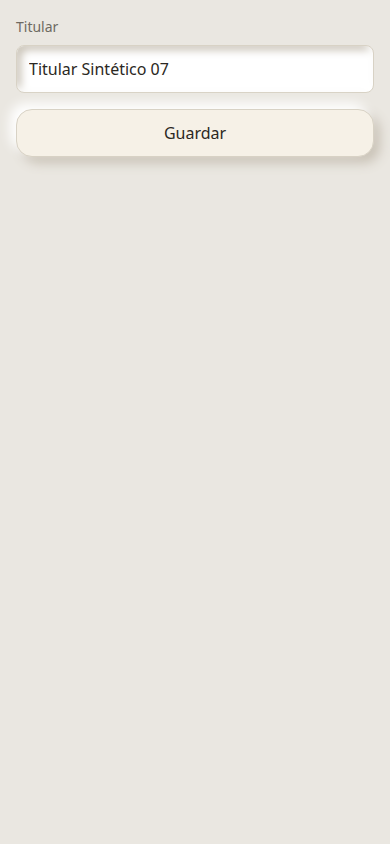
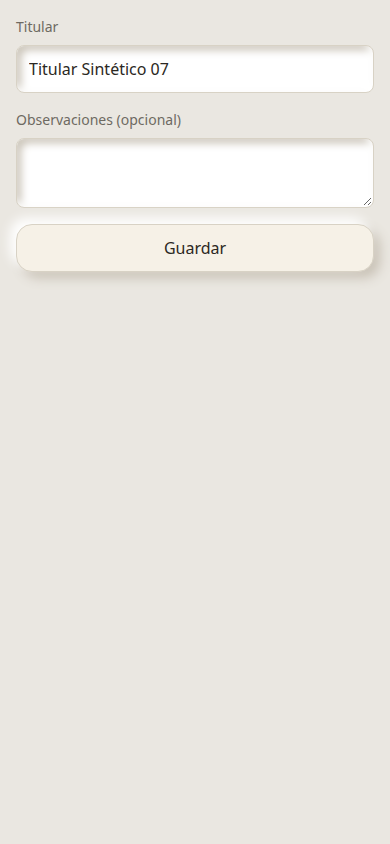
UI-20: botón y pantalla del reporte del día
Pantalla de reporte accesible desde el detalle general. Muestra los
cambios confirmados del día elegido con siete columnas: ID, Fecha,
Inquilino, Concepto, Observaciones, Solicitante y Ejecutor.
La fecha por omisión es hoy (Querétaro). Sin tabla cuando no hay datos.

Changed region(s): [[0.0308, 0.1232, 0.9846, 0.2464], [0.0923, 0.2773, 0.9846, 0.3389]]

diff --git a/web/reporte/reporte.js b/web/reporte/reporte.js
@@ -1,0 +1,88 @@
+// Reporte del día. UI-20.
+
+function fechaDeQueretaro() {
+  return new Intl.DateTimeFormat("en-CA", {
+    timeZone: "America/Mexico_City",
+    year: "numeric",
+    month: "2-digit",
+    day: "2-digit",
+  }).format(new Date());
+}
+
+function textoPersona(valor) {
+  return valor === "vania" ? "Vania" : valor || "—";
+}
+
+function crearFila(fila) {
+  const tr = document.createElement("tr");
+  const columnas = [
+    ["id", fila.id], ["fecha", fila.fecha], ["inquilino", fila.inquilino],
+    ["concepto", fila.concepto], ["observaciones", fila.observaciones || "—"],
+    ["solicitante", textoPersona(fila.solicitante)], ["ejecutor", textoPersona(fila.ejecutor)],
+  ];
+  for (const [nombre, valor] of columnas) {
+    const td = document.createElement("td");
+    td.dataset.columnaReporte = nombre;
+    td.textContent = String(valor ?? "—");
+    if (nombre === "ejecutor") {
+      td.dataset.ejecutor = fila.ejecutor || "";
+      td.className = fila.ejecutor === "vania" ? "reporte__ejecutor reporte__ejecutor--vania" : "reporte__ejecutor";
+    }
+    tr.appendChild(td);
+  }
+  return tr;
+}
+
+async function cargarReporte(cuerpo, fecha) {
+  cuerpo.innerHTML = "";
+  const respuesta = await fetch(`/api/reporte?fecha=${encodeURIComponent(fecha)}`);
+  if (!respuesta.ok) {
+    const error = document.createElement("p");
+    error.className = "navegacion__mensaje";
+    error.textContent = "No se pudo cargar el reporte del día.";
+    cuerpo.appendChild(error);
+    return;
+  }
+  const filas = await respuesta.json();
+  if (filas.length === 0) {
+    const vacio = document.createElement("p");
+    vacio.dataset.reporteVacio = "true";
+    vacio.textContent = "No hubo cambios confirmados este día.";
+    cuerpo.appendChild(vacio);
+    return;
+  }
+  const tabla = document.createElement("table");
+  tabla.dataset.tablaReporte = "true";
+  tabla.innerHTML = "<thead><tr><th>ID</th><th>Fecha</th><th>Inquilino</th><th>Concepto</th><th>Observaciones</th><th>Solicitante</th><th>Ejecutor</th></tr></thead>";
+  const tbody = document.createElement("tbody");
+  for (const fila of filas) tbody.appendChild(crearFila(fila));
+  tabla.appendChild(tbody);
+  cuerpo.appendChild(tabla);
+}
+
+export async function renderReporte(contenedor) {
+  if (!document.querySelector('link[href="/reporte/reporte.css"]')) {
+    const estilos = document.createElement("link");
+    estilos.rel = "stylesheet";
+    estilos.href = "/reporte/reporte.css";
+    document.head.appendChild(estilos);
+  }
+  const titulo = document.createElement("h2");
+  titulo.textContent = "Reporte del día";
+  contenedor.appendChild(titulo);
+  const etiqueta = document.createElement("label");
+  etiqueta.htmlFor = "reporte-fecha";
+  etiqueta.textContent = "Fecha";
+  const fecha = document.createElement("input");
+  fecha.id = "reporte-fecha";
+  fecha.type = "date";
+  fecha.value = fechaDeQueretaro();
+  fecha.dataset.fechaReporte = "true";
+  etiqueta.appendChild(fecha);
+  contenedor.appendChild(etiqueta);
+  const envoltura = document.createElement("div");
+  envoltura.className = "reporte__tabla";
+  contenedor.appendChild(envoltura);
+  await cargarReporte(envoltura, fecha.value);
+  fecha.addEventListener("change", () => cargarReporte(envoltura, fecha.value));
+}

diff --git a/web/reporte/reporte.css b/web/reporte/reporte.css
@@ -1,0 +1,8 @@
+/* Reporte del día. UI-20. */
+.detalle-general__areas { display: flex; flex-wrap: wrap; gap: var(--espacio-2); margin-bottom: var(--espacio-4); }
+.detalle-general__reporte { font-weight: 600; }
+#reporte-fecha { display: block; margin-top: var(--espacio-1); }
+.reporte__tabla { overflow-x: auto; margin-top: var(--espacio-4); box-shadow: var(--sombra-hundida); }
+.reporte__tabla table { width: 100%; min-width: 720px; border-collapse: collapse; font-size: var(--texto-sm); }
+.reporte__tabla th, .reporte__tabla td { padding: var(--espacio-2); border-bottom: 1px solid var(--borde-suave); text-align: left; vertical-align: top; }
+.reporte__ejecutor--vania { color: var(--acento); font-weight: 700; }

diff --git a/tests/ui/test_ui20_reporte.py b/tests/ui/test_ui20_reporte.py
@@ -1,0 +1,55 @@
+"""UI-20: reporte del día desde el detalle, en vista de teléfono."""
+
+from datetime import datetime
+from pathlib import Path
+from zoneinfo import ZoneInfo
+
+
+def _fecha_queretaro():
+    return datetime.now(ZoneInfo("America/Mexico_City")).date().isoformat()
+
+
+def test_reporte_abre_hoy_muestra_columnas_y_no_contamina_nivel1(servicio_url, page):
+    page.set_viewport_size({"width": 390, "height": 844})
+    page.goto(f"{servicio_url}/#detalle")
+    page.locator("[data-abrir-reporte]").click()
+    page.wait_for_selector("[data-fecha-reporte]")
+
+    assert page.locator("[data-fecha-reporte]").input_value() == _fecha_queretaro()
+
+    page.goto(f"{servicio_url}/")
+    page.wait_for_selector(".nivel1")
+    assert page.locator(".nivel1 table").count() == 0
+
+
+def test_cambiar_fecha_consulta_el_dia_elegido_y_la_tabla_tiene_siete_columnas(servicio_url, page):
+    page.set_viewport_size({"width": 390, "height": 844})
+    page.goto(f"{servicio_url}/#reporte")
+    page.wait_for_selector("[data-fecha-reporte]")
+    fecha_pasada = "2000-01-01"
+    with page.expect_response(lambda respuesta: f"/api/reporte?fecha={fecha_pasada}" in respuesta.url):
+        page.locator("[data-fecha-reporte]").fill(fecha_pasada)
+        page.locator("[data-fecha-reporte]").dispatch_event("change")
+    page.wait_for_selector("[data-reporte-vacio]")
+    assert page.locator("[data-fecha-reporte]").input_value() == fecha_pasada
+
+    page.goto(f"{servicio_url}/#reporte")
+    page.wait_for_selector("[data-fecha-reporte]")
+    encabezados = page.locator("[data-tabla-reporte] th")
+    if encabezados.count() == 0:
+        page.evaluate("""async () => {
+          const pendiente = await fetch('/api/inquilinos', {
+            method: 'POST', headers: {'Content-Type': 'application/json'},
+            body: JSON.stringify({titular: 'Reporte UI-20'})
+          });
+          const cambio = await pendiente.json();
+          await fetch(`/api/cambios/${cambio.id}/confirmar`, {method: 'POST'});
+        }""")
+        page.reload()
+        page.wait_for_selector("[data-tabla-reporte]")
+        encabezados = page.locator("[data-tabla-reporte] th")
+    assert encabezados.all_inner_texts() == [
+        "ID", "Fecha", "Inquilino", "Concepto", "Observaciones", "Solicitante", "Ejecutor"
+    ]
+    Path("evidencia/UI-20").mkdir(parents=True, exist_ok=True)
+    page.screenshot(path="evidencia/UI-20/reporte-390.png", full_page=True)
